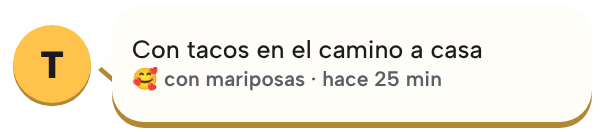
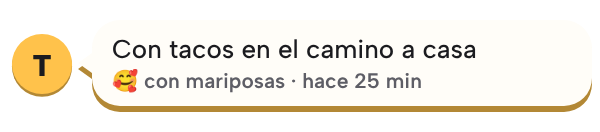
v0.14.2: burbuja de Su mensaje delgadita y widgets Color/Escarcha en dos bloques
Claude-Session: https://claude.ai/code/session_014Dsa21GqWfavjJsqgvsYQQ

Changed region(s): [[0.03, 0.1818, 0.99, 0.9697], [0.18, 0.303, 0.81, 0.4545], [0.0, 0.5152, 0.03, 0.5758]]

diff --git a/src/widgets/components/message.ts b/src/widgets/components/message.ts
@@ -10,30 +10,29 @@ import { FROST, frostPiece, shade, TONAL_OFFSET } from './svg';
 
 export type MessageSize = { width: number; height: number };
 
-/** Aire alrededor del widget (dp). */
+/** Aire a los lados del widget (dp). */
 const PAD_X = 4;
-const PAD_Y = 2;
 /** Ancho de la colita y alto de su base (dp). */
 const TAIL_W = 7;
-const TAIL_H = 12;
+const TAIL_H = 10;
 /** Sombra tonal de la burbuja (dp): más sutil que la de las formas del lienzo de 100. */
 export const BUBBLE_SHADOW = 3;
 /** Relleno interior de la burbuja (dp). */
-const PAD_IN = 5;
+const PAD_IN = 6;
 const PAD_IN_X = 10;
-const AVATAR_MAX = 44;
-const AVATAR_MIN = 30;
-const RADIUS_MAX = 16;
+const AVATAR = 34;
+const FONT_SIZE = 13;
+const META_SIZE = 10.5;
 const META_HEIGHT = 13;
-const MAX_LINES = 4;
 
 export type MessageLayout = {
-  /** Diámetro del círculo de la inicial y su esquina superior izquierda (dp). */
+  /** Diámetro del círculo de la inicial y su esquina superior izquierda (dp, desde el widget). */
   avatar: number;
   avatarTop: number;
   avatarLeft: number;
   /** Caja de la burbuja (incluye la colita a la izquierda y la sombra tonal abajo). */
   bubbleLeft: number;
+  bubbleTop: number;
   bubbleWidth: number;
   bubbleHeight: number;
   /** Cuerpo de la burbuja sin colita ni sombra. */
@@ -45,65 +44,53 @@ export type MessageLayout = {
   metaSize: number;
   initialSize: number;
   lineHeight: number;
-  /** Líneas máximas del mensaje (2 en una celda de alto, hasta 4 si el widget es más alto). */
+  /** Líneas del mensaje: siempre una, con "…" si no cabe (v0.14.2). */
   lines: number;
-  /** Si cabe la línea del mood debajo del mensaje. */
+  /** Si va la línea del mood debajo del mensaje. */
   showMeta: boolean;
   /** Relleno del texto dentro de la caja de la burbuja. */
   textLeft: number;
   textRight: number;
 };
 
-const clamp = (n: number, lo: number, hi: number): number => Math.min(hi, Math.max(lo, n));
-
-/** Reparte el espacio de un widget de `size` dp (de 3×1 a 4×2 celdas o más). */
+/**
+ * Burbuja delgadita (v0.14.2): mide lo que su contenido (una línea de mensaje y la del mood) y va
+ * centrada en el alto del widget, sin importar el tamaño de la celda. Sin espacio muerto.
+ */
 export function messageLayout(size: MessageSize, hasMeta: boolean): MessageLayout {
   const height = Math.max(36, Math.floor(size.height));
   const width = Math.max(120, Math.floor(size.width));
-  const bubbleHeight = height - PAD_Y * 2;
-  const bodyHeight = bubbleHeight - BUBBLE_SHADOW;
-  const avatar = Math.round(Math.min(AVATAR_MAX, Math.max(AVATAR_MIN, bodyHeight)));
+  const lineHeight = Math.ceil(FONT_SIZE * 1.25);
+  const withMeta = PAD_IN * 2 + lineHeight + 1 + META_HEIGHT;
+  // Si la celda es muy bajita, se va la línea del mood antes que el mensaje.
+  const showMeta = hasMeta && withMeta + BUBBLE_SHADOW <= height;
+  const bodyHeight = showMeta ? withMeta : PAD_IN * 2 + lineHeight;
+  const bubbleHeight = bodyHeight + BUBBLE_SHADOW;
+  const avatar = Math.min(AVATAR, height - 2);
   const avatarLeft = PAD_X;
   const bubbleLeft = avatarLeft + avatar + 1;
   const bubbleWidth = Math.max(60, width - bubbleLeft - PAD_X);
-  // En una celda el círculo va centrado con la burbuja; más alto, arriba junto a la colita.
-  const avatarTop =
-    PAD_Y + (bodyHeight <= avatar + 24 ? Math.max(0, Math.round((bodyHeight - avatar) / 2)) : 0);
-  const radius = Math.min(RADIUS_MAX, Math.floor(bodyHeight / 2));
-  const tailY = clamp(
-    avatarTop - PAD_Y + avatar / 2,
-    radius + TAIL_H / 2,
-    Math.max(radius + TAIL_H / 2, bodyHeight - radius - TAIL_H / 2),
-  );
-
-  const tall = height >= 90;
-  const fontSize = tall ? 14 : 12.5;
-  const lineHeight = Math.ceil(fontSize * 1.2);
-  const available = bodyHeight - PAD_IN * 2;
-  let showMeta = hasMeta;
-  let lines = Math.floor((available - (showMeta ? META_HEIGHT : 0)) / lineHeight);
-  if (showMeta && lines < 2 && Math.floor(available / lineHeight) >= 2) {
-    // Con el mood no caben dos líneas de mensaje: gana el mensaje.
-    showMeta = false;
-    lines = Math.floor(available / lineHeight);
-  }
-  lines = clamp(lines, 1, MAX_LINES);
+  const bubbleTop = Math.max(0, Math.round((height - bubbleHeight) / 2));
+  const avatarTop = Math.max(0, bubbleTop + Math.round((bodyHeight - avatar) / 2));
+  // Deja recto el tramo del costado donde sale la colita.
+  const radius = Math.min(14, Math.max(4, Math.floor(bodyHeight / 2) - TAIL_H / 2 - 1));
 
   return {
     avatar,
     avatarTop,
     avatarLeft,
     bubbleLeft,
+    bubbleTop,
     bubbleWidth,
     bubbleHeight,
     bodyHeight,
     radius,
-    tailY: Math.round(tailY * 10) / 10,
-    fontSize,
-    metaSize: 10.5,
+    tailY: Math.round((bodyHeight / 2) * 10) / 10,
+    fontSize: FONT_SIZE,
+    metaSize: META_SIZE,
     initialSize: Math.round(avatar * 0.46),
     lineHeight,
-    lines,
+    lines: 1,
     showMeta,
     textLeft: TAIL_W + PAD_IN_X,
     textRight: PAD_IN_X,

diff --git a/app.config.ts b/app.config.ts
@@ -30,30 +30,32 @@ const WIDGET_DEFAULTS = {
   widgetCategory: 'home_screen',
 } as const;
 
-// Mensaje de tu pareja: burbuja ancha, 4×1 por defecto; se estira de 3 a 4+ celdas y hasta 2 de alto
-// (el plugin no tiene `minResizeWidth`: el mínimo de ancho es `minWidth`, unos 3 cuadros).
+// Mensaje de tu pareja: burbuja ancha y delgada, 4×1; se estira a lo ancho desde ~3 celdas (el
+// plugin no tiene `minResizeWidth`: el mínimo de ancho es `minWidth`). Una sola fila (v0.14.2).
 const MESSAGE_WIDGET = {
   minWidth: '180dp',
   minHeight: '40dp',
   targetCellWidth: 4,
   targetCellHeight: 1,
-  maxResizeHeight: '130dp',
-  resizeMode: 'horizontal|vertical',
+  resizeMode: 'horizontal',
 } as const;
 
-// Cada widget se registra dos veces con el mismo `label` y `description`: tonal y Escarcha
-// (`<Nombre>Frost`, D141). Los nombres tonales no cambian: los widgets ya puestos siguen vivos.
+// Cada widget se registra dos veces: tonal y Escarcha (`<Nombre>Frost`, D141). Los nombres internos
+// tonales no cambian: los widgets ya puestos siguen vivos. El selector (One UI) ordena por `label`,
+// así que el prefijo de estilo los junta en dos bloques: todos los "Color" y luego los "Escarcha"
+// (D145; con el mismo nombre salían alternados y no se agrupaban en cajitas).
+const STYLE_LABEL = { tonal: 'Color', frost: 'Escarcha' } as const;
 const widgetPair = (
   name: string,
   label: string,
   description: string,
   overrides: Partial<typeof WIDGET_DEFAULTS> | typeof MESSAGE_WIDGET = {},
 ) =>
-  [name, `${name}Frost`].map((widgetName) => ({
-    name: widgetName,
-    label,
+  (['tonal', 'frost'] as const).map((style) => ({
+    name: style === 'frost' ? `${name}Frost` : name,
+    label: `${STYLE_LABEL[style]} · ${label}`,
     description,
-    previewImage: widgetPreview(widgetName),
+    previewImage: widgetPreview(style === 'frost' ? `${name}Frost` : name),
     ...WIDGET_DEFAULTS,
     ...overrides,
   }));
@@ -149,7 +151,7 @@ export default ({ config }: ConfigContext): ExpoConfig => ({
         ],
         widgets: [
           ...widgetPair('DaysTogether', 'Días juntos', 'Cuántos días llevan juntos.'),
-          ...widgetPair('PartnerMood', 'Mood de mi pareja', 'Cómo anda tu pareja ahorita.'),
+          ...widgetPair('PartnerMood', 'Su mood', 'Cómo anda tu pareja ahorita.'),
           ...widgetPair(
             'Countdown',
             'La próxima vez',
@@ -157,7 +159,7 @@ export default ({ config }: ConfigContext): ExpoConfig => ({
           ),
           ...widgetPair(
             'PartnerStory',
-            'Story de tu pareja',
+            'Su story',
             'Lo último que subió tu pareja, sin abrir la app.',
           ),
           ...widgetPair(
@@ -168,7 +170,7 @@ export default ({ config }: ConfigContext): ExpoConfig => ({
           ...widgetPair('Streak', 'Racha', 'Cuántos días llevan contestando la pregunta del día.'),
           ...widgetPair(
             'PartnerMessage',
-            'Mensaje de tu pareja',
+            'Su mensaje',
             'El mensaje que te dejó tu pareja con su mood.',
             MESSAGE_WIDGET,
           ),

diff --git a/src/widgets/__tests__/message.test.ts b/src/widgets/__tests__/message.test.ts
@@ -9,36 +9,49 @@ import {
 import { FRUITS } from '@/lib/fruits';
 
 describe('messageLayout', () => {
-  it('en una celda de alto: dos líneas con el mood debajo', () => {
+  it('una sola línea de mensaje con el mood debajo', () => {
     const l = messageLayout({ width: 320, height: 60 }, true);
-    expect(l.lines).toBe(2);
+    expect(l.lines).toBe(1);
     expect(l.showMeta).toBe(true);
-    expect(l.avatar).toBeLessThanOrEqual(44);
   });
 
-  it('si no caben las dos líneas con el mood, gana el mensaje', () => {
-    const l = messageLayout({ width: 250, height: 52 }, true);
+  it('la burbuja es delgadita: no crece con el alto de la celda', () => {
+    const short = messageLayout({ width: 320, height: 60 }, true);
+    const tall = messageLayout({ width: 320, height: 110 }, true);
+    expect(tall.bubbleHeight).toBe(short.bubbleHeight);
+    expect(short.bubbleHeight).toBeLessThanOrEqual(48);
+    // Centrada en el alto del widget.
+    expect(tall.bubbleTop).toBe(Math.round((110 - tall.bubbleHeight) / 2));
+  });
+
+  it('en una celda muy bajita se va el mood, no el mensaje', () => {
+    const l = messageLayout({ width: 250, height: 40 }, true);
     expect(l.showMeta).toBe(false);
-    expect(l.lines).toBeGreaterThanOrEqual(2);
+    expect(l.lines).toBe(1);
   });
 
-  it('más alto, hasta cuatro líneas', () => {
-    expect(messageLayout({ width: 320, height: 140 }, true).lines).toBe(4);
-    expect(messageLayout({ width: 250, height: 100 }, false).lines).toBeLessThanOrEqual(4);
+  it('sin mood, la burbuja es todavía más delgada', () => {
+    const a = messageLayout({ width: 320, height: 80 }, true);
+    const b = messageLayout({ width: 320, height: 80 }, false);
+    expect(b.bubbleHeight).toBeLessThan(a.bubbleHeight);
   });
 
-  it('la burbuja cabe en el widget y la colita queda dentro', () => {
+  it('la burbuja cabe en el widget y la colita queda en el tramo recto', () => {
     for (const size of [
+      { width: 250, height: 40 },
       { width: 250, height: 60 },
       { width: 320, height: 60 },
-      { width: 320, height: 140 },
+      { width: 320, height: 110 },
     ]) {
-      const l = messageLayout(size, true);
-      expect(l.bubbleLeft + l.bubbleWidth).toBeLessThanOrEqual(size.width);
-      expect(l.bubbleHeight).toBeLessThanOrEqual(size.height);
-      expect(l.tailY).toBeGreaterThan(0);
-      expect(l.tailY).toBeLessThan(l.bodyHeight);
-      expect(l.bodyHeight + BUBBLE_SHADOW).toBe(l.bubbleHeight);
+      for (const meta of [true, false]) {
+        const l = messageLayout(size, meta);
+        expect(l.bubbleLeft + l.bubbleWidth).toBeLessThanOrEqual(size.width);
+        expect(l.bubbleTop + l.bubbleHeight).toBeLessThanOrEqual(size.height);
+        expect(l.avatarTop + l.avatar).toBeLessThanOrEqual(size.height);
+        expect(l.tailY - 5).toBeGreaterThanOrEqual(l.radius);
+        expect(l.tailY + 5).toBeLessThanOrEqual(l.bodyHeight - l.radius);
+        expect(l.bodyHeight + BUBBLE_SHADOW).toBe(l.bubbleHeight);
+      }
     }
   });
 });

diff --git a/src/widgets/components/MessageFrame.tsx b/src/widgets/components/MessageFrame.tsx
@@ -37,7 +37,6 @@ export function MessageFrame({ name, size, view }: Props) {
         flexDirection: 'row',
         alignItems: 'flex-start',
         paddingLeft: layout.avatarLeft,
-        paddingTop: 2,
       }}
       {...tapProps(name, view.a11y)}
     >
@@ -45,7 +44,7 @@ export function MessageFrame({ name, size, view }: Props) {
         style={{
           width: layout.avatar,
           height: layout.avatar,
-          marginTop: layout.avatarTop - 2,
+          marginTop: layout.avatarTop,
           marginRight: 1,
         }}
       >
@@ -76,7 +75,13 @@ export function MessageFrame({ name, size, view }: Props) {
         </FlexWidget>
       </OverlapWidget>
 
-      <OverlapWidget style={{ width: layout.bubbleWidth, height: layout.bubbleHeight }}>
+      <OverlapWidget
+        style={{
+          width: layout.bubbleWidth,
+          height: layout.bubbleHeight,
+          marginTop: layout.bubbleTop,
+        }}
+      >
         <SvgWidget
           svg={bubbleSvg(layout, style, fruits.partner)}
           style={{ width: layout.bubbleWidth, height: layout.bubbleHeight }}

diff --git a/src/widgets/__tests__/render.test.tsx b/src/widgets/__tests__/render.test.tsx
@@ -187,13 +187,16 @@ describe('renderWidget', () => {
     }
   });
 
-  it('el mensaje limita las líneas según el alto', () => {
+  it('el mensaje va siempre en una línea con "…"', () => {
     const lines = (height: number) => {
       const json = JSON.stringify(treeOf('PartnerMessage', MODELS.ready, { width: 320, height }));
       return Math.max(...[...json.matchAll(/"maxLines":(\d)/g)].map((m) => Number(m[1])));
     };
-    expect(lines(60)).toBe(2);
-    expect(lines(140)).toBe(4);
+    expect(lines(60)).toBe(1);
+    expect(lines(140)).toBe(1);
+    expect(
+      JSON.stringify(treeOf('PartnerMessage', MODELS.ready, { width: 320, height: 60 })),
+    ).toContain('"truncate":"END"');
   });
 
   it('la story abre la de tu pareja', () => {

diff --git a/src/components/widget-preview/WidgetPreview.tsx b/src/components/widget-preview/WidgetPreview.tsx
@@ -63,7 +63,7 @@ function MessagePreview({ name, model, width, height }: WidgetPreviewProps) {
           </Text>
         </View>
       </View>
-      <View style={{ position: 'absolute', left: l.bubbleLeft, top: 2 }}>
+      <View style={{ position: 'absolute', left: l.bubbleLeft, top: l.bubbleTop }}>
         <Image
           source={uri(bubbleSvg(l, view.style, view.fruits.partner))}
           style={{ width: l.bubbleWidth, height: l.bubbleHeight }}

diff --git a/docs/PLAN.md b/docs/PLAN.md
@@ -1163,7 +1163,7 @@ el selector para ver la escarcha y el de mensaje).
 | Ajustes v0.13.4 (distancia, frutas, widgets) | ✅ Desplegada y mergeada (v0.13.4) | #26 | Distancia precisa con "juntos" (D130), 40 frutas por color (D129) y vistas previas del selector de widgets (D131). Migraciones `20261118000000_more_fruits` y `20261118000001_precise_location` + `notify`, desplegadas el 2026-11-18 (`ccbf21f`). Vistas previas regeneradas con el estilo tonal de la v0.13.3. Notas en `docs/releases/v0.13.4.md`. |
 | Ajustes v0.13.5 (preguntas visibles, teclado) | ✅ Mergeada (v0.13.5) | #27 | Distintivo de "contestaron los dos" (franja con las dos frutas y píldora), pendientes de la pareja en Inicio y Preguntas con número por categoría y orden "te toca" primero en la categoría (D132), y teclado que ya no tapa inputs en el editor de stories, de memorias y en las hojas. Sin cambios de servidor. APK v0.13.5 publicado y probado por el usuario; PR mergeado a `main` a pedido del usuario (2026-11-20). |
 | Ajustes v0.13.6 (widgets, stories, mood, toques) | ✅ Desplegada y mergeada (v0.13.6) | #28 | D134–D138. Sale junto con el renombre a `mx.ahorita.app` (D138, rama `claude/friendly-rubin-9dga9t`): app nueva, no se instala encima. Release con solo ABIs arm y timeout de 90 min (el primer intento se pasó de 60). APK **v0.13.6** publicado el 2026-11-21 (21 min); PR #29 con el renombre, mergeado a `main` a pedido del usuario (2026-11-21). Servidor desplegado el 2026-11-20 (`825cfb9`, migración `20261120000000_nudge_burst`, 22 registradas). Notas en `docs/releases/v0.13.6.md`; PR mergeado a `main` a pedido del usuario (2026-11-20); falta probar en los celulares. Media luna con una sola regla (desde la última visita), atrás desde widgets a Inicio, widget de story con "ya la viste", mood sin mensaje pegado, nombres en Distancia, stories de hoy, visor sin pantalla negra, foto sin recorte, un solo pie de foto y 10 toques al día con 5 s entre uno y otro (migración de `send_nudge`). |
-| Ajustes v0.14.0 (entrar, pendientes, widgets escarcha, camino) | ✅ APK publicado (v0.14.0) | | D139–D143. APK **v0.14.0** publicado el 2026-11-21, pero se cerraba al llegar a Inicio (worklet de `HalfMoon` llamando a `fillTop`, D144); **v0.14.1** con el arreglo y una prueba que lo vigila, publicado el 2026-11-21 (CI verde). Falta probar en los celulares y el PR. Rama `claude/determined-galileo-rvli3f`. Sin cambios de servidor. Entrar sin scroll y sin barras (implementador), `/pending` (implementador), el camino `WaitPath` + media luna animada (disenador-ui), 14 widgets: tonal + Escarcha gris translúcida y el nuevo Mensaje de tu pareja (implementador). Notas en `docs/releases/v0.14.0.md`. |
+| Ajustes v0.14.0 (entrar, pendientes, widgets escarcha, camino) | ✅ APK publicado (v0.14.0) | | D139–D143. APK **v0.14.0** publicado el 2026-11-21, pero se cerraba al llegar a Inicio (worklet de `HalfMoon` llamando a `fillTop`, D144); **v0.14.1** con el arreglo y una prueba que lo vigila, publicado el 2026-11-21 (CI verde). **v0.14.2** (D145): burbuja de "Su mensaje" delgadita con "…" y nombres "Color · …"/"Escarcha · …" porque One UI no los agrupó. Falta probar en los celulares y el PR. Rama `claude/determined-galileo-rvli3f`. Sin cambios de servidor. Entrar sin scroll y sin barras (implementador), `/pending` (implementador), el camino `WaitPath` + media luna animada (disenador-ui), 14 widgets: tonal + Escarcha gris translúcida y el nuevo Mensaje de tu pareja (implementador). Notas en `docs/releases/v0.14.0.md`. |
 
 ### 10.1 Camino a la v1.0.0
 
@@ -1180,7 +1180,7 @@ Estamos cerca de la v1.0.0, pero antes faltan:
 
 **Pruebas en el celular pendientes** (una línea por release, con su lista en `docs/releases/`):
 
-- **v0.14.1** (`v0.14.1.md` + `v0.14.0.md`): que Inicio ya no se cierre; Entrar sin scroll, sin barras, "Te toca a ti", el camino animado,
+- **v0.14.2** (`v0.14.2.md`, `v0.14.1.md` y `v0.14.0.md`): burbuja delgadita y selector en dos bloques; que Inicio ya no se cierre; Entrar sin scroll, sin barras, "Te toca a ti", el camino animado,
   widgets Escarcha (¿One UI los agrupa por nombre?) y Mensaje de tu pareja de 3×1 a 4×2.
 
 - **v0.13.6** (`v0.13.6.md`): media luna igual en widget/Inicio/Cuentas regresivas, atrás desde

diff --git a/docs/DECISIONS.md b/docs/DECISIONS.md
@@ -155,3 +155,4 @@ de la D16 en adelante se toman durante las fases. Cada fase agrega aquí lo que 
 | D142 | **Widget "Mensaje de tu pareja"** (`PartnerMessage`, 4×1 redimensionable de 3×1 a 4×2, tonal y escarcha): su fruta con la inicial y una burbuja con el mensaje de su mood (`partnerMood.note`), el mood y hace cuánto; sin mensaje, la burbuja dice su mood. Sin cambios de snapshot ni de servidor. | Pedido de la novia (inspirado en Couple Joy, con forma propia). | 2026-11-21 |
 | D143 | **"El camino" reemplaza a `waitCaption`**: bajo la media luna (que ahora se llena animada), una línea con un punto por día (≤ 21 días) y las dos frutas que se acercan desde los extremos hasta juntarse el día de verse; solo fechas cortas en los extremos y la frase completa para lectores de pantalla. Sin fecha de inicio real (ventana de 30 días) no se dibuja. | Pedido del usuario: "1 de 7 días desde que la apuntaron" se leía plano y confuso. | 2026-11-21 |
 | D144 | **Worklets sin funciones de JS** (v0.14.1): los callbacks de `useAnimatedStyle`/`useAnimatedProps`/`useDerivedValue` solo usan números, Reanimated y `Math`; nada importado de otro módulo. La v0.14.0 se cerraba al llegar a Inicio porque `HalfMoon` llamaba a `fillTop` en el hilo de UI (en web y Jest no falla). `workletCalls.test.ts` lo vigila. | Cierre al entrar reportado por el usuario. | 2026-11-21 |
+| D145 | **Widgets: nombres con prefijo de estilo y mensaje delgadito** (v0.14.2; corrige D141 y D142). One UI no agrupó por nombre (no hay API pública para las cajitas tipo "Buscar"/"Favoritos"; el Android de Google solo agrupa por app) y ordena por `label`, así que se llaman "Color · …" y "Escarcha · …" (dos bloques); nombres cortos "Su mood", "Su story", "Su mensaje". La burbuja de "Su mensaje" mide su contenido (una línea con "…" + mood), va centrada y el widget solo se estira a lo ancho. | Prueba del usuario en su Samsung: alternados y burbuja muy alta. | 2026-11-21 |

diff --git a/docs/releases/v0.14.2.md b/docs/releases/v0.14.2.md
@@ -1,0 +1,19 @@
+# Fase 12 — Ajustes: widget de mensaje delgadito y widgets en dos bloques
+
+- **Su mensaje (widget):** la burbuja ahora es delgadita: mide solo lo que su contenido (una línea
+  de mensaje y la del mood) y va centrada, sin espacio muerto. Si el mensaje no cabe en una línea,
+  termina en "…". Ya no se agranda a lo alto: solo a lo ancho.
+- **Selector de widgets:** los widgets ahora se llaman "Color · …" y "Escarcha · …", así salen en
+  dos bloques (primero todos los de color y luego todos los Escarcha) en lugar de alternados.
+  Nombres más cortos para que no se corten: "Su mood", "Su story" y "Su mensaje".
+
+## Antes de instalar
+
+Sin cambios de servidor: se instala encima de la v0.14.1. Los widgets que ya tengas puestos siguen
+funcionando (solo cambió su nombre en el selector).
+
+## Qué probar
+
+- [ ] Widget **Su mensaje** (color y Escarcha): delgadito, centrado; con un mensaje largo termina
+      en "…".
+- [ ] El selector de widgets muestra primero los "Color · …" y luego los "Escarcha · …".
